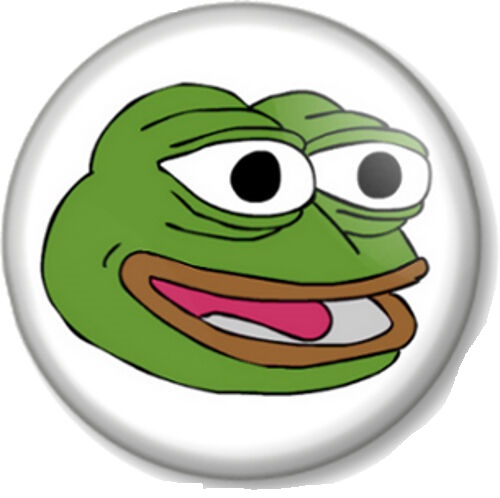
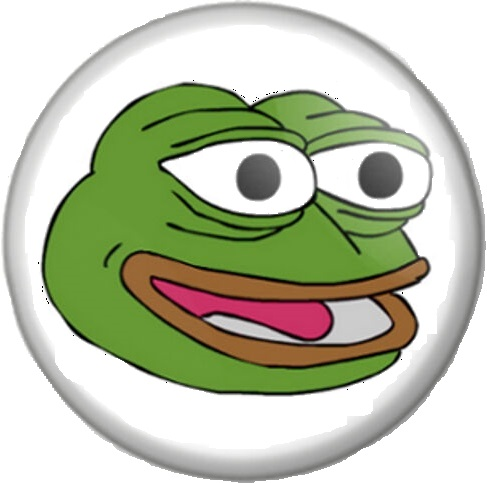
ship image fixed, need to fix asteroids now

diff --git a/src/main/java/root/intelligentasteroidsshooter/SinglePlayerView.java b/src/main/java/root/intelligentasteroidsshooter/SinglePlayerView.java
@@ -3,6 +3,7 @@ package root.intelligentasteroidsshooter;
 import javafx.animation.AnimationTimer;
 import javafx.fxml.FXMLLoader;
 import javafx.scene.Scene;
+import javafx.scene.effect.BlendMode;
 import javafx.scene.layout.*;
 import javafx.scene.image.Image;
 import javafx.scene.image.ImageView;
@@ -34,8 +35,9 @@ public class SinglePlayerView {
         pane.setBackground(paneBackgr);
 
         //Image imageForShip = new Image("file:pepeShip.jpg"); // doesn't render the image, shrug
-        Image imageForShip = new Image("C:\\Users\\mrusl\\Desktop\\Java Projects\\Intelligent-Asteroids-Shooter\\src\\main\\resources\\root\\intelligentasteroidsshooter\\pepeShip.jpg");
+        Image imageForShip = new Image("C:\\Users\\mrusl\\Desktop\\Java Projects\\Intelligent-Asteroids-Shooter\\src\\main\\resources\\root\\intelligentasteroidsshooter\\pepeShip_nobackgr.png");
         ImageView shipImage = new ImageView(imageForShip);
+        //shipImage.setBlendMode(BlendMode.EXCLUSION);
         shipImage.setScaleX(0.1);
         shipImage.setScaleY(0.1);
         Ship ship = new Ship(shipImage,WIDTH / 2, HEIGHT / 2);
